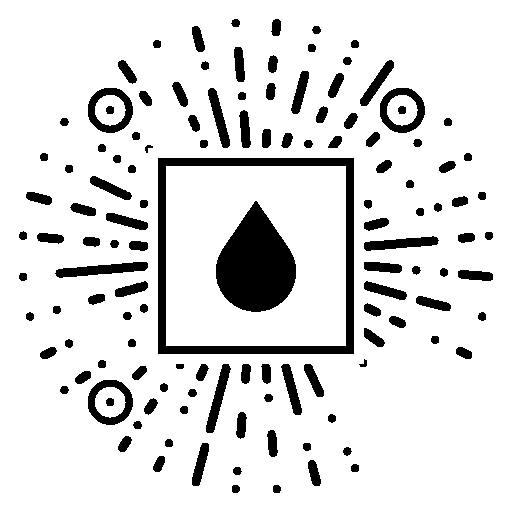
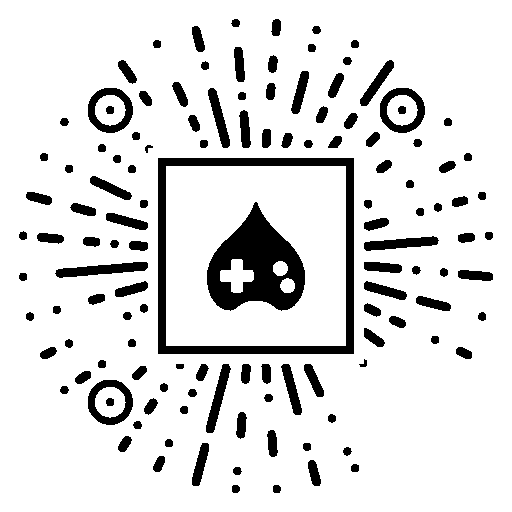
feat(ui): 打赏码中心标记换成 v3「墨滴手柄」；换图标同步写成一条命令
用户要求：打赏码中心的标记跟着新图标更新（v3「墨滴手柄」）。

做法
- 新增 `tools/scripts/qr-center.mjs`：标记几何**直接读 `apps/web/public/icon.svg` 的 path**
  （墨滴外轮廓 + fill-rule: evenodd 挖空的十字键与两颗圆键），不手抄坐标 ——
  以后换图标只需换 svg + 重跑脚本。缺省处理 about/donate.png 与 about/donate-512.png。
- 上一轮的硬约束全部做成可执行自检，任一条不过就**拒绝写入、文件保持原样**：
  ① 孔外（方框带 + QR 模块）逐像素复核必须 0 差异；② 孔内不得有灰阶；
  ③ 标记距框线 ≥2px；④ 孔内黑像素只减不增。
- 尺寸是被自检逼出来的：方框 = 内部短边 × 0.78 时黑像素 1436 ≤ 上一版 1479；
  0.80 时是 1534（v3 墨滴比 v2 胖）会被拒 —— 缩小 2.5%，观感无差别。

验证（两条独立路径）
- 脚本自检：donate.png 256×256 · 孔 90×90 · 方框 70px · 孔外差异 0 · 灰阶 0 · 黑像素 1479→1436；
  donate-512.png 512×512 · 孔 180×180 · 方框 140px · 黑像素 5892→5793。脚本幂等（重跑结果相同）。
- 独立复核（不经脚本，直接解 PNG 与 git 旧版逐像素比）：差异 671 / 2721 像素，
  **全部落在孔内**，孔外 0 差异、灰阶 0。
- 真机 P6Plus 与 NoteX2：关于页显示新标记；页面内 fetch 到的 donate.png = 7374B
  （新版；旧版 7191B），渲染 240×240。
- `npm run check` + `npm run verify` 全绿。

顺带记录（已写进 docs/eink-guidelines.md）
- 微信赞赏码不是普通 QR 载荷：jsQR 对新旧两版**都读不出来**（同管线下标准码可正常读出），
  所以别拿通用解码器当验收标准，真正的验收是微信「扫一扫」；
  工程上能保证的是孔外零改动 + 孔尺寸不变。

Changed region(s): [[0.4062, 0.4688, 0.5938, 0.625], [0.4688, 0.4062, 0.5312, 0.4375]]

diff --git a/packages/ui/src/screens/authorInfo.ts b/packages/ui/src/screens/authorInfo.ts
@@ -22,12 +22,14 @@
  *   就把下面这行改成 './about/donate-512.png'，或者用 512 那张覆盖 donate.png
  *   （后者更省事：只留一个文件，换图时不会漏掉另一张）。
  *
- *   中心标记：这张码中间有一个带方框的「logo 孔」（微信码的常见做法，孔内由纠错码兜底），
- *   孔里现在是**本项目的墨滴标记**（取自旧版 v2 App 图标：白底 + 黑墨滴，纯 1-bit）。
- *   App 图标已换成 v3「墨滴手柄」（apps/android/icon/source.png）；孔里的标记还没跟着换，
- *   要同步就按下面的硬约束重做。
- *   换码/换标记时的硬约束：**孔外的模块一个像素都不能动**（本轮把原来的猫照片换成墨滴时
- *   逐像素校验过：孔外差异 0、孔内黑像素只减不增，扫码余量不变差）。
+ *   中心标记：这张码中间有一个带方框的「logo 孔」（微信赞赏码的头像槽，孔内由纠错码兜底），
+ *   孔里是**本项目的 v3「墨滴手柄」标记**（黑墨滴里挖空十字键与两颗圆键，纯 1-bit）。
+ *   它与 App 图标同源：几何直接取自 `apps/web/public/icon.svg` 的 path，
+ *   所以图标再改时**一条命令就能同步**（不要手抄坐标）：
+ *     node tools/scripts/qr-center.mjs      # 会自检并把两张码重画一遍
+ *   硬约束（脚本已逐条实现，任何一条不过就拒绝写入、文件保持原样）：
+ *     **孔外（方框带 + QR 模块）一个像素都不能动** —— 写回后逐像素复核，差异必须为 0；
+ *     孔内不得出现灰阶；标记距框线留 ≥2px；孔内黑像素只减不增（不因换标记加重遮挡）。
  *   1-bit 面板上**不要往孔里放照片** —— 灰阶照片会被阈值成噪点，看起来脏（用户反馈过）。
  *
  * 图片规格（**必须事先转成 1-bit 黑白**）：

diff --git a/docs/eink-guidelines.md b/docs/eink-guidelines.md
@@ -965,3 +965,26 @@ const cell = fit >= config.minCell ? Math.floor(fit) : Math.max(ABSOLUTE_MIN_CEL
 > 顺带一个坑：`check-i18n` 判断硬编码文案的方式是「先按引号取字符串字面量，再看里面有没有中文」，
 > 所以**注释里用英文引号包起来的中文**也会被判违规（本轮就被它拦下一次）。
 > 注释里的引文一律用「」，与项目其它注释保持一致。
+
+## 打赏码中心标记：跟着 App 图标同步（孔外一个像素都不能动）
+
+关于页那张打赏码是**微信赞赏码**，中间有一个带黑框的「logo 孔」—— 那本来是放用户头像的槽位，
+孔内由纠错码兜底。用户要求孔里的标记跟 App 图标走（v3「墨滴手柄」），于是写成一条命令：
+
+```bash
+node tools/scripts/qr-center.mjs      # 缺省处理 about/donate.png 与 about/donate-512.png
+```
+
+- 标记几何**直接读 `apps/web/public/icon.svg` 的 path**（墨滴外轮廓 + `fill-rule: evenodd` 挖空的
+  十字键与两颗圆键）——不手抄坐标，图标再改只需换 svg、重跑本脚本。
+- 脚本把上一轮的硬约束做成了可执行自检，任何一条不过就**拒绝写入、文件保持原样**：
+  ① 孔外（方框带 + QR 模块）逐像素复核，差异必须 0；② 孔内不得有灰阶；
+  ③ 标记距框线 ≥2px；④ 孔内黑像素只减不增。
+- 尺寸是**被自检逼出来的**：标记方框取内部短边的 0.78 时黑像素 1436 ≤ 上一版 1479 ✓；
+  取 0.80 时是 1534（v3 墨滴比 v2 胖），超了就写不进去。实测数据（本次）：
+  donate.png 256×256 · 孔 90×90 · 方框 70px · 距框线 18px；donate-512.png 512×512 · 孔 180×180 · 方框 140px。
+- **不要往孔里放照片**：1-bit 面板会把灰阶阈值成噪点，看起来脏（用户反馈过，这正是当初换掉猫照片的原因）。
+
+> 别拿通用解码器当验收标准：jsQR 对**新旧两版都读不出来**（标准生成的对照码能正常读出），
+> 因为微信赞赏码不是普通 QR 载荷。真正能验收的是微信「扫一扫」；工程上能保证的是
+> 「孔外零改动 + 孔尺寸不变」，也就是扫码器面对的错误区域没有变大。
